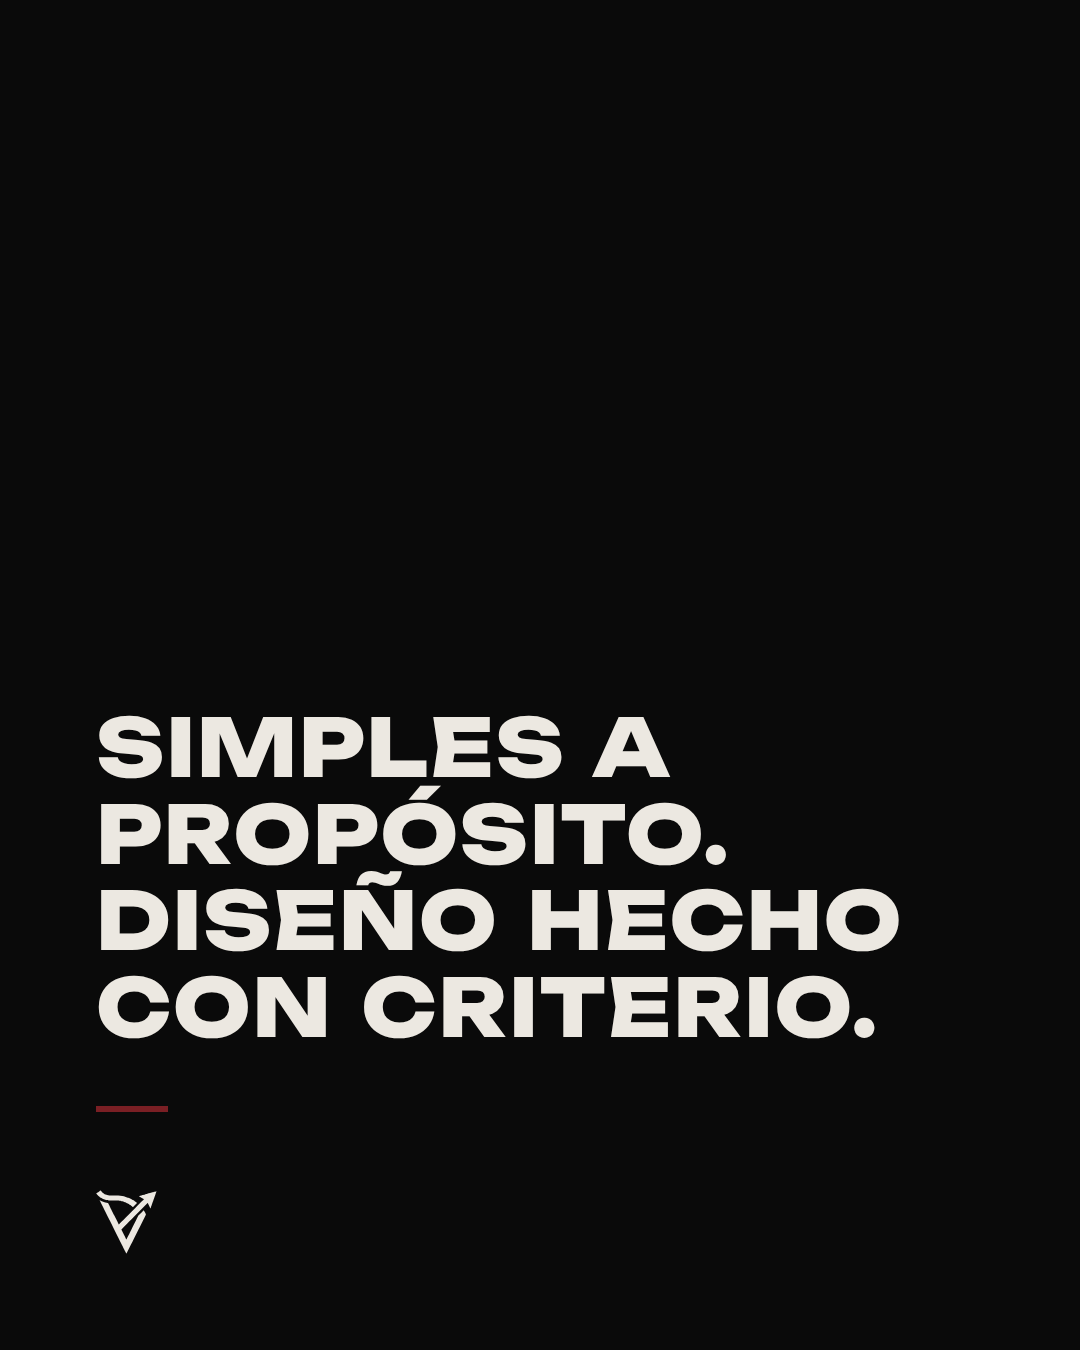
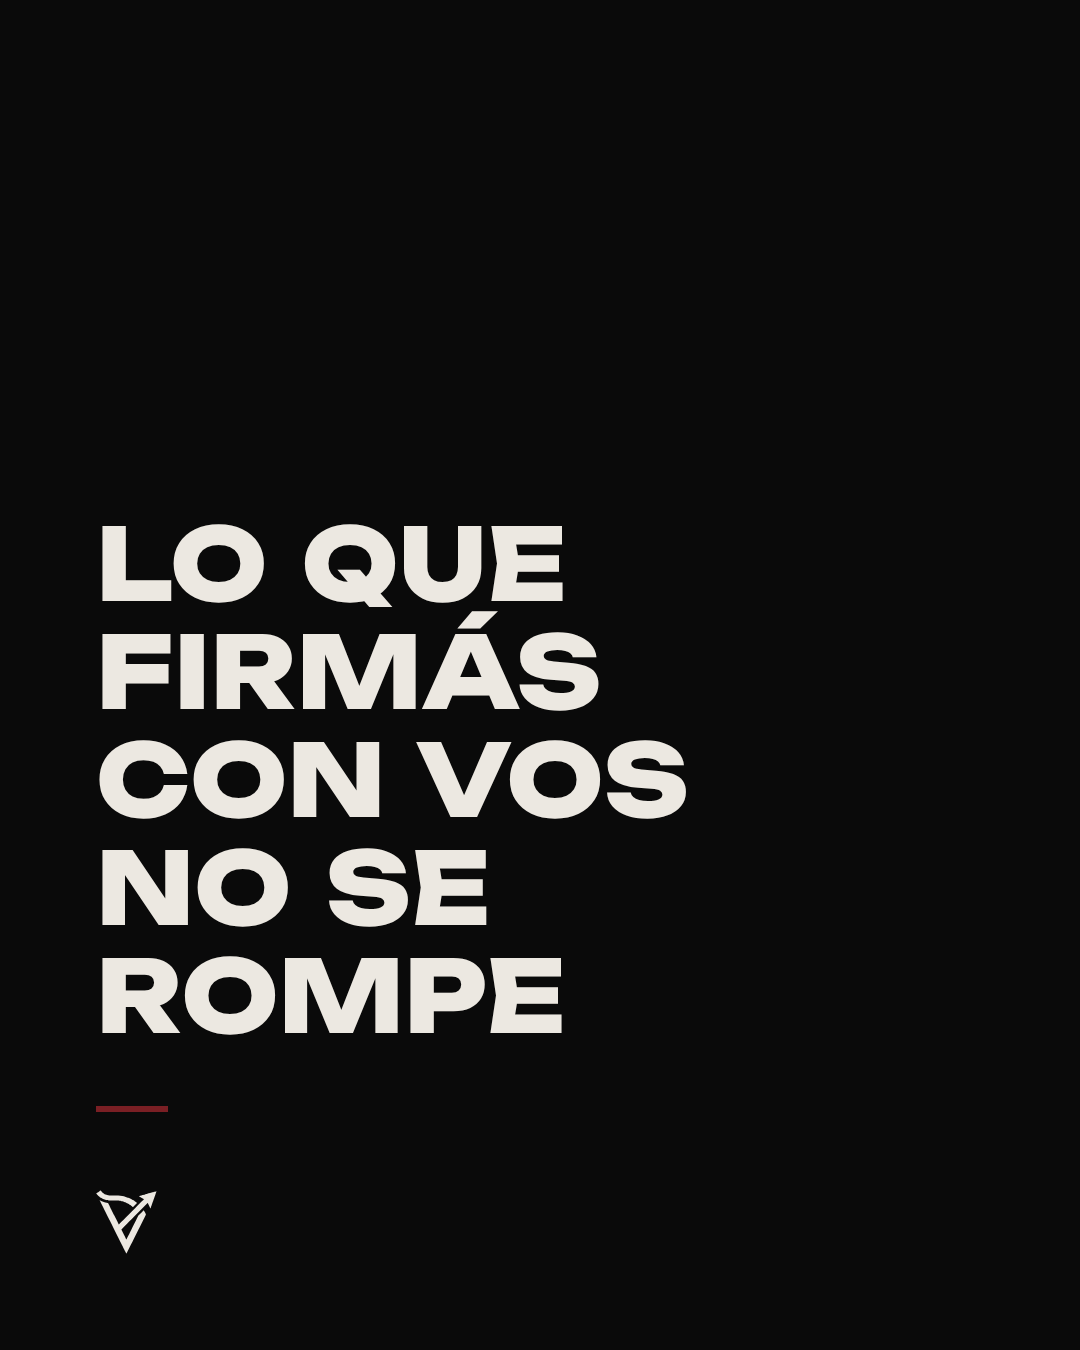
Carrusel de presentación de 7 láminas: suma 'Lo que firmás con vos no se rompe' y 'Construí en silencio'
Claude-Session: https://claude.ai/code/session_015SS4X6wajxShpycwF2vcHV

Changed region(s): [[0.0917, 0.3733, 0.8556, 0.7778]]

diff --git a/src/disenio/carrusel.test.js b/src/disenio/carrusel.test.js
@@ -24,9 +24,9 @@ test("no se genera nada si un texto rompe las reglas", async () => {
   await assert.rejects(() => generar(join(tmpdir(), "no-se-crea"), mala), /reglas de marca/);
 });
 
-test("las láminas de ambos carruseles son 5 y cada una tiene al menos una línea", () => {
+test("promesa tiene 5 láminas, presentación 7, y cada una tiene al menos una línea", () => {
   for (const { laminas } of Object.values(CARRUSELES)) {
-    assert.equal(laminas.length, 5);
+    assert.ok(laminas.length === 5 || laminas.length === 7);
     assert.ok(laminas.every((l) => l.lineas.length > 0));
   }
 });
@@ -45,12 +45,12 @@ test("el HTML no muestra números de lámina (se sacaron a pedido de Facundo)", 
 
 // Necesita Chromium: en el CI de tests no está, así que se saltea
 const chromium = process.env.CHROMIUM_PATH || "/opt/pw-browsers/chromium";
-test("genera los 5 PNG de cada carrusel sin que ninguna línea se salga del margen", { skip: !existsSync(chromium) && "no hay Chromium" }, async () => {
+test("genera un PNG por lámina de cada carrusel sin que ninguna línea se salga del margen", { skip: !existsSync(chromium) && "no hay Chromium" }, async () => {
   process.env.CHROMIUM_PATH = chromium;
   for (const [nombre, { laminas }] of Object.entries(CARRUSELES)) {
     const salida = mkdtempSync(join(tmpdir(), `carrusel-${nombre}-`));
     await generar(salida, laminas);
-    assert.deepEqual(readdirSync(salida).sort(), [1, 2, 3, 4, 5].map((n) => `lamina-${n}.png`));
+    assert.deepEqual(readdirSync(salida).sort(), laminas.map((_, n) => n + 1).map((n) => `lamina-${n}.png`));
   }
 });
 
@@ -81,4 +81,11 @@ test("dentro de cada carrusel, las láminas 1 a 4 alternan fondo claro y oscuro"
   for (const { laminas } of Object.values(CARRUSELES)) {
     for (let i = 1; i < 4; i++) assert.notEqual(laminas[i].fondo, laminas[i - 1].fondo);
   }
+});
+
+test("la presentación tiene 7 láminas: marca, promesa y cierre con la lista de espera", () => {
+  const { laminas } = CARRUSELES.presentacion;
+  assert.equal(laminas.length, 7);
+  assert.equal(laminas.at(-1).cierre, "Link en la bio");
+  for (let i = 1; i < 6; i++) assert.notEqual(laminas[i].fondo, laminas[i - 1].fondo);
 });

diff --git a/src/disenio/carrusel.js b/src/disenio/carrusel.js
@@ -29,6 +29,8 @@ const presentacion = [
   { espaciado: 0.02, lineas: ["Esto es", "VOW."], fondo: COLOR.hueso, tinta: COLOR.negro, apoyo: COLOR.topo },
   { espaciado: 0.02, lineas: ["Una marca", "argentina de", "ropa y", "accesorios", "para entrenar."], tamano: 72, fondo: COLOR.negro, tinta: COLOR.hueso, apoyo: COLOR.topo },
   { espaciado: 0.02, lineas: [{ texto: "VOW", flecha: true }, "Promesa."], fondo: COLOR.hueso, tinta: COLOR.negro, apoyo: COLOR.topo },
+  { lineas: ["Lo que", "firmás", "con vos", "no se", "rompe"], fondo: COLOR.negro, tinta: COLOR.hueso, apoyo: COLOR.topo },
+  { lineas: ["Construí", "en silencio.", "Que hable", "el tiempo"], fondo: COLOR.hueso, tinta: COLOR.negro, apoyo: COLOR.topo },
   { espaciado: 0.02, lineas: ["Simples a", "propósito.", "Diseño hecho", "con criterio."], tamano: 80, fondo: COLOR.negro, tinta: COLOR.hueso, apoyo: COLOR.topo },
   { espaciado: 0.02, lineas: ["Drop 01", "en 2027.", "Anotate en la", "lista de", "espera."], tamano: 72, fondo: COLOR.beige, tinta: COLOR.negro, apoyo: COLOR.negro, cierre: "Link en la bio" },
 ];

diff --git a/docs/piezas/2026-10-19-carrusel-presentacion.md b/docs/piezas/2026-10-19-carrusel-presentacion.md
@@ -1,13 +1,15 @@
 # Carrusel · 19/10/2026 · pilar lanzamiento
 
-**Estado:** textos definidos con Facundo; láminas generadas en `docs/piezas/2026-10-19-laminas/` (falta su aprobación final). Es la **primera** publicación de la cuenta, porque explica qué es VOW; el carrusel de la promesa (27/10) sale después. La fecha es tentativa: si se publica otro día, se actualiza acá.
+**Estado:** carrusel de 7 láminas (la presentación más dos láminas de la promesa que Facundo eligió); textos definidos con Facundo; láminas generadas en `docs/piezas/2026-10-19-laminas/` (falta su aprobación final). Es la **primera** publicación de la cuenta, porque explica qué es VOW; las otras dos láminas de la promesa ("Cumplite a vos primero" y "El trabajo diario no busca aplausos") quedan para una pieza de la semana del 2/11. La fecha es tentativa: si se publica otro día, se actualiza acá.
 
 ## Láminas
 1. Esto es VOW.
 2. Una marca argentina de ropa y accesorios para entrenar.
 3. VOW → Promesa.
-4. Simples a propósito. Diseño hecho con criterio.
-5. Drop 01 en 2027. Anotate en la lista de espera.
+4. Lo que firmás con vos no se rompe.
+5. Construí en silencio. Que hable el tiempo.
+6. Simples a propósito. Diseño hecho con criterio.
+7. Drop 01 en 2027. Anotate en la lista de espera.
 
 ## Diseño
 Mismo sistema que el carrusel de la promesa: una frase por lámina, fondos hueso y negro alternados y beige para el cierre, mucho espacio vacío, sin producto ni personas. La lámina 3 usa la flecha de marca en bordó como único acento.
